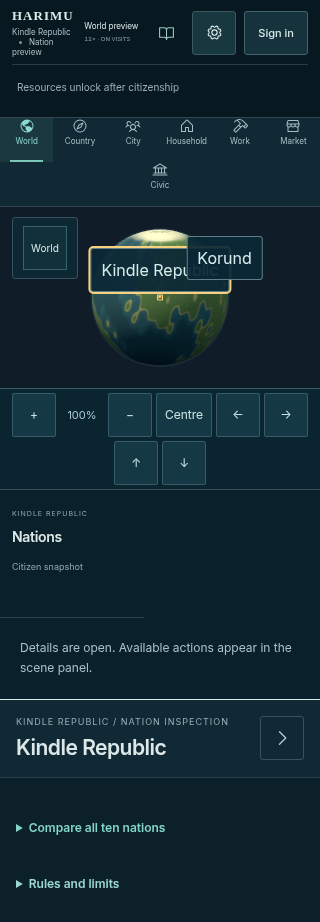
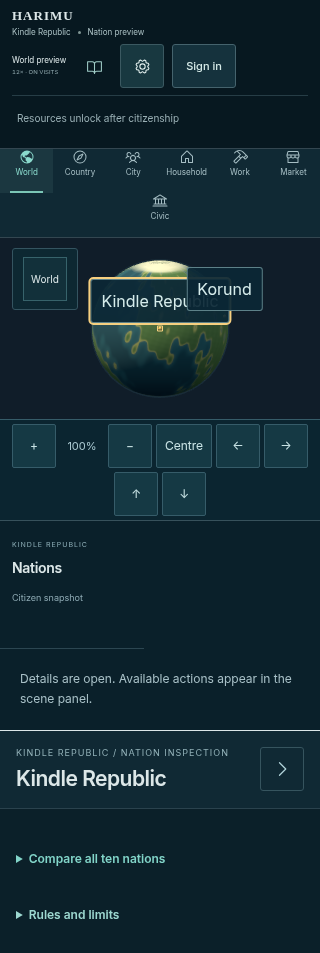
Keep a floor under the top-bar identity on phones so the clock text no longer overlaps it; probe measures the clock text (#528)

diff --git a/app/game-shell.css b/app/game-shell.css
@@ -285,6 +285,8 @@ body:has(.harimu-game){overflow:auto}
   .harimu-game .game-account .game-notifications{min-width:44px;min-height:44px;justify-content:center}
   .harimu-game .game-account>.game-hud-help>summary{display:flex;align-items:center;min-width:44px;min-height:44px}
   .harimu-game .game-resources>.game-hud-help>summary,.harimu-game .game-resources>.game-wallet-button{min-height:44px}
+  /* The identity column keeps a floor (the <=420px rule above lets it shrink to 0), so the wider 44px account controls wrap to a second row instead of squeezing it under the clock text (QA3 on #552). */
+  .harimu-game .game-hud>.game-identity{min-width:calc(120px * var(--text-scale, 1))}
   .harimu-game .game-breadcrumbs button{min-width:44px;min-height:44px}
   .harimu-game .game-shift-chip{min-height:44px}
   .harimu-game .game-dock button{min-height:max(44px,calc(39px * var(--text-scale, 1)))}
